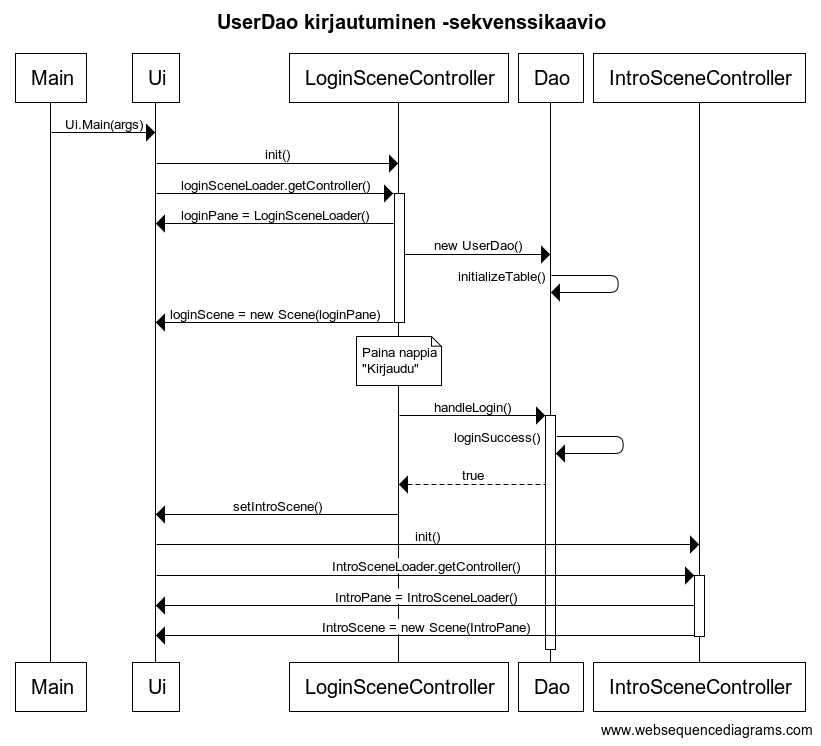
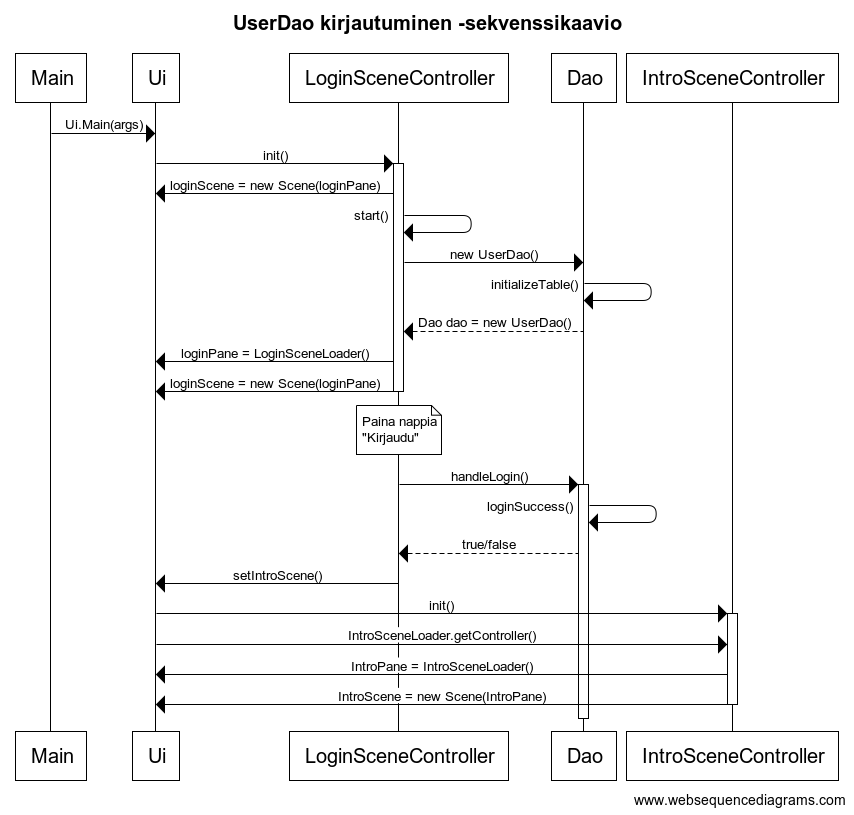
Sekvenssikaavioiden päivittäminen ja viimeistely

Changed region(s): [[0.0, 0.0, 1.0, 1.0], [0.0305, 0.8941, 0.1218, 0.9558]]

diff --git a/matopeli/src/main/java/matopeli/ui/LoginSceneController.java b/matopeli/src/main/java/matopeli/ui/LoginSceneController.java
@@ -48,7 +48,7 @@ public class LoginSceneController implements Initializable {
 
     @Override
     public void initialize(URL url, ResourceBundle rb) {
-
+        
     }    
 
     /**
@@ -67,6 +67,7 @@ public class LoginSceneController implements Initializable {
         else {
             if (dao.loginSuccess(username, password)) {
                 application.setIntroScene();
+                errorMessage.setText(""); 
             } else {
                 errorMessage.setText("Kirjautuminen epäonnistui!"); 
             }
@@ -75,6 +76,7 @@ public class LoginSceneController implements Initializable {
     
     @FXML
     public void handleGoToRegister(ActionEvent event) {
+        errorMessage.setText(""); 
         application.setRegisterScene();
     }
 
@@ -93,6 +95,7 @@ public class LoginSceneController implements Initializable {
      */
     @FXML 
     public void start() throws Exception {
+        
         Properties property = new Properties(); 
         property.load(new FileInputStream("config.properties"));
         

diff --git a/matopeli/src/main/java/matopeli/ui/RegisterSceneController.java b/matopeli/src/main/java/matopeli/ui/RegisterSceneController.java
@@ -82,9 +82,16 @@ public class RegisterSceneController implements Initializable {
     @FXML
     public void handleGoToLogin(ActionEvent event) {
         application.setLoginScene();
+        uiMessage.setText(""); 
     }
     @Override
     public void initialize(URL url, ResourceBundle rb) {
-        
+    
     }  
+
+    @FXML 
+    public void start() throws Exception {
+             
+    }
+
 }

diff --git a/dokumentaatio/arkkitehtuuri.md b/dokumentaatio/arkkitehtuuri.md
@@ -24,30 +24,58 @@ DatabaseURL-osoitetta käytetään sovelluksen käynnistyksen yhteydessä gameDa
 
 ## Sekvenssikaaviot
 
+### Käyttäjän Kirjautuminen
+
+Ui-luokka alustaa LoginSceneController-luokan ja asettaa kirjautumisnäkymän. Samalla LoginSceneController luokka alustaa Dao-rajapinnan "User"-toimintoja varten käyttämällä ```config.properties```-tiedostoa tietokantayhteyden luomiseksi. 
+
+Kun käyttäjä painaa nappia "Kirjaudu" LoginSceneControllerin ```handleLogin()``` funktion kautta Dao-rajapinta käsittelee kirjautumisen SQLiten kautta metodilla ```loginSuccess()```. Tämä palauttaa totuusarvon LoginSceneControllerille. Jos vastaus oli true, niin LoginSceneController välittää Ui:lle asetettavaksi aloitusnäkymän metodilla ```setIntroScene```. Näkymä siirtyy aloitusnäkymään. 
+
+<img src ="https://github.com/limi96/ot-harjoitustyo/blob/master/dokumentaatio/kuvat/kirjautuminen-sekvenssikaavio.png">
+
 ### Käyttäjän rekisteröytyminen
 
-Ui-luokka alustaa RegisterSceneController-luokan ja asettaa rekisteröytymis. Samalla RegisterSceneController luokka alustaa Dao-rajapinnan "User"-toimintoja varten. 
+Ui-luokka alustaa RegisterSceneController-luokan ja asettaa rekisteröytymisnäkymän. Ui-luokassa linkitetään LoginSceneController RegisterSceneControlleriin ja tämä saa DAO-rajapinnan itselleen LoginSceneControllerin kautta. 
 
 Kun käyttäjä painaa nappia "Rekisteröidy" RegisterSceneControllerin ```handleRegistration()``` funktion kautta Dao-rajapinta käsittelee rekisteröytymisen SQLiten kautta metodilla ```registerUser()```. Tämä palauttaa totuusarvon RegisterSceneControllerille. 
 Käyttäjä voi painaa tämän jälkeen nappia "Takaisin", jolloin RegisterSceneController välittää Ui:lle asetettavaksi kirjautumisnäkymän metodilla ```setLoginScene```. Näkymä siirtyy kirjautumisnäkymään. 
 
 <img src ="https://github.com/limi96/ot-harjoitustyo/blob/master/dokumentaatio/kuvat/rekisteroi%20-sekvenssikaavio.png">
 
-### Käyttäjän Kirjautuminen
-
-Ui-luokka alustaa LoginSceneController-luokan ja asettaa kirjautumisnäkymän. Samalla LoginSceneController luokka alustaa Dao-rajapinnan "User"-toimintoja varten. 
-
-Kun käyttäjä painaa nappia "Kirjaudu" LoginSceneControllerin ```handleLogin()``` funktion kautta Dao-rajapinta käsittelee kirjautumisen SQLiten kautta metodilla ```loginSuccess()```. Tämä palauttaa totuusarvon LoginSceneControllerille. Jos vastaus oli true, niin LoginSceneController välittää Ui:lle asetettavaksi aloitusnäkymän metodilla ```setIntroScene```. Näkymä siirtyy aloitusnäkymään. 
-
-<img src ="https://github.com/limi96/ot-harjoitustyo/blob/master/dokumentaatio/kuvat/kirjautuminen-sekvenssikaavio.png">
 
 ### Varsinaisen matopeli-näkymän käynnistyminen
 
-Ui-luokan alustuksen jälkeen, introScene-näkymässä olevan "Aloita peli :)" -nappia painatteassa introController-luokan ``` handleInitGame()```  -metodin kautta Ui asettaa näkymäksi``` gameScenen``` eli varsinaisen pelinäkymän ```setGameScene()```-metodin kautta. GameOverSceneController alustaa GameWindow:n luoman pelinäkymän Ui:lle. Lisäksi GameWindow saa GameOverSceneController-luokan injektion, jonka avulla GameWindow voi käsitellä pelin loppumista metodilla ```handleGameOver()```.
+Ui-luokan alustuksen jälkeen, introScene-näkymässä olevan "Pelaa peliä :)" -nappia painatteassa introController-luokan ``` handleInitGame()```  -metodin kautta Ui asettaa näkymäksi``` gameScenen``` eli varsinaisen pelinäkymän ```setGameWindow(Color, Color, true/false)```-metodin kautta , jossa on parametreina Intro-näkymässä valitut värivaihtoehdot. GameSceneController alustaa GameWindow:n luoman pelinäkymän Ui:lle. Lisäksi GameWindow saa GameSceneController-luokan injektion, jonka avulla GameWindow voi käsitellä pelin loppumista metodilla ```handleGameOver()```.
+
+Pelinäkymän hakemiseen käskytetään ensin GameSceneControlleria hakemaan GameWindow metodilla ```getGameWindow()```. GameSceneController pyytää GameWindow:ta rakentamaan pelinäkymän metodilla ```getGameScene(Color, Color, true/false)```. Nyt Ui voi vihdoin asettaa itselleen pelinäkymän metodilla ```setGameScene()```. 
 
 GameWindow-luokka alustaa SnakeClassin ja Food-luokkien kautta pelille tarpeelliset Oliot ja pelinäkymän ``` initializeSnake()```, ```initializeScore()``` ja ``` initializeRootpane()``` -metodien kautta. Peli käynnistetään ```startGame()```- metodin kautta ja lisätään ohjaustoiminto ```addKeyListener()``` -metodin kautta. Nyt vihdoinkin on rakennettu pelinäkymä ```gameScene```, joka palautetaan Ui-luokalle ja tämä asettaa pelinäkymän käyttäjälle. 
 
-Peli päivittyy jatkuvasti ``` render() ``` -metodin kautta, jolloin SnakeClass-olion kautta voidaan säätää maton nopeus, pituus ja suunta. Pelin loppuessa GameWindow kutsuu GameOverSceneController-luokan ```handleGameOver()```-metodia, jolloin Ui-luokka asettaa ```setGameOverScene```-metodin kautta pelin loppunäkymän. 
+Peli päivittyy jatkuvasti ``` render() ``` -metodin kautta, jolloin SnakeClass-olion kautta voidaan säätää maton nopeus, pituus ja suunta. Pelin loppuessa GameWindow kutsuu GameSceneController-luokan ```handleGameOver()```-metodia, jolloin Ui-luokka asettaa ```setGameOverScene```-metodin kautta pelin loppunäkymän. 
 
 
 <img src="https://github.com/limi96/ot-harjoitustyo/blob/master/dokumentaatio/kuvat/matopeli-sekvenssikaavio.png">
+
+### Loppunäkymä - Pisteiden tallennus ja uudelleenkäynnistyminen 
+
+Ui-luokka alustaa loppunäkymän eli GameOverScenen ja ennen käynnistymistä Ui-luokassa linkitetään LoginSceneController GameSceneControlleriin ja tämä saa DAO-rajapinnan itselleen LoginSceneControllerin kautta. 
+
+Kun peli päättyy GameWindow-luokka pyytää GameSceneControlleria käsittelemään pelin loppumista handleGameOver()-metodin kautta. 
+Tämä hoitaa pelin pisteiden tallentumisen käyttäjälle ensin hakemalla pisteet GameWindow-luokalta, sitten käyttäjänimen LoginSceneControllerilta ja tekee lopulta tallenuksen tietokantaa DAO-rajapinnan kautta. Lopuksi GameSceneController ilmoittaa käyttäjälle Label-olion kautta lopullisen pistemäärän. 
+
+Pelin uudelleen käynnistyminen tapahtuu siten, että GameSceneController pyytää GameWindow-luokalta edellisen pelin väriasetukset. Tämän jälkeen GameSceneController hoitaa pelin käynnistymisen ```handleRestartGame()```-metodin kautta. Pelinäkymä luodaan kokonaan uudestaan Ui:lle edellisen sekvenssikaavion kuvailemalla tavalla. 
+
+<img src="https://github.com/limi96/ot-harjoitustyo/blob/master/dokumentaatio/kuvat/loppunakyma-sekvenssi.png">
+
+
+### Highscores-näkymän luominen
+
+
+Ui-luokka alustaa highscores-näkymän ja ennen käynnistymistä Ui-luokassa linkitetään LoginSceneController HighScoresSceneControlleriin ja tämä saa DAO-rajapinnan itselleen LoginSceneControllerin kautta. 
+
+HighScoresSceneControllerin käynnistyessä ```start()```-metodilla se hakee DAO-rajapinnan kautta metodilla ```fetchHighScores()``` tietokannasta käyttäjien pistetilanteet. Tämän jälkeen saatu listan tiedot käsitellään ja asetetaan käyttäjälle näkyviin ```nameLabel``` ja ```scoreLabel``` Label-olioden avulla. 
+
+<img src="https://github.com/limi96/ot-harjoitustyo/blob/master/dokumentaatio/kuvat/highscoret-sekvenssikaavio.png">
+
+
+
+

diff --git a/dokumentaatio/vaatimusmaarittely.md b/dokumentaatio/vaatimusmaarittely.md
@@ -10,9 +10,9 @@ Sovelluksessa on vain peruskäyttäjiä.
 
 ## Käyttöliittymäluonnos
 
-<img src="https://github.com/limi96/ot-harjoitustyo/blob/master/dokumentaatio/kuvat/kayttoliittymaluonnos.png" width="500">
+<img src="https://github.com/limi96/ot-harjoitustyo/blob/master/dokumentaatio/kuvat/kayttoliittymaluonnos.png" width="800">
 
-Sovellus alkaa kirjautumisnäkymästä, josta voi siirtyä joko suoraan "logged in" -osioon tai rekisteröintisivun kautta. "Logged in" -sivusta pääsee joko pelaamaan peliä tai katsomaan parhaimpia tuloksia "high scores"-sivulla. Häviämisen jälkeen voidaan siirtyä uuteen peliin, tarkastelemaan parhaimpia tuloksia tai kirjautumalla pois. 
+Sovellus alkaa kirjautumisnäkymästä, josta voi siirtyä joko suoraan Intro-näkymään tai rekisteröytymään. Intro-näkymästä pääsee joko pelaamaan peliä tai katsomaan parhaimpia tuloksia "high scores"-sivulla. Häviämisen jälkeen voidaan siirtyä uuteen peliin, tarkastelemaan parhaimpia tuloksia tai kirjautumalla pois. 
 
 
 ## Perusversion tarjoama toiminnallisuus
@@ -22,16 +22,25 @@ Sovellus alkaa kirjautumisnäkymästä, josta voi siirtyä joko suoraan "logged 
 - :heavy_check_mark: Pelissä on näkymä, jossa on nappi, josta päästään pelaamaan peliä 
 - :heavy_check_mark: Käyttäjä voi luoda uuden tunnuksen
 - :heavy_check_mark: Käyttäjä voi kirjautua sisään jo olemassaolevilla tunnuksilla
+- :heavy_check_mark: Kirjautuessa ja rekisteröinnin aikana tarkistetaan tyhjät ja välilyöntejä sisältävät syötteet 
+- :heavy_check_mark: Rekisteröinnin aikana tarkistetaan, onko olemassa jo samanniminen käyttäjätunnus
+- :heavy_check_mark: Virhetekstit eivät jää lojumaan siirtyessä näkymästä toiseen kirjautumis -ja rekisteröintinäkymissä. 
 
 ### Kirjautumisen jälkeen:
 
 - :heavy_check_mark: Käyttäjä voi pelata peliä
-- Käyttäjä voi tarkistaa parhaimpia tuloksia
+- :heavy_check_mark: Käyttäjä voi tarkistaa parhaimpia tuloksia
 - :heavy_check_mark: Käyttäjä voi kirjautua ulos
+- :heavy_check_mark: Käyttäjä voi valita madon, ruuan ja taustan värit
+- :heavy_check_mark: Jos madon tai ruuan väriksi on valittu musta tai valkonen, kyseessä oleva olion väri muuttuu oletusarvoiseksi. 
+- :heavy_check_mark: Intro-näkymässä on ohjeet pelin aloittamista varten. 
 
 ### Pelin aikana: 
 
 - :heavy_check_mark: Käyttäjä pääsee pelaamaan perinteistä matopeliä
+- :heavy_check_mark: Pelin aikana on mahdollista tauottaa peli painamalla p-näppäintä 
+- :heavy_check_mark: Tauotettu peli jatkaa toimintaansa painaessa p-näppäintä uudestaan. 
+- :heavy_check_mark: "Peli tauotettu" -teksti näkyy sekä valkoisella että mustalla taustalla. 
 
 ### Matopelin toiminallisuudet:
 
@@ -42,7 +51,9 @@ Sovellus alkaa kirjautumisnäkymästä, josta voi siirtyä joko suoraan "logged 
 
 ### Pelin päätyttyä: 
 
-- Käyttäjä näkee oman tuloksensa. 
+- :heavy_check_mark: Käyttäjä näkee oman tuloksensa. 
 - :heavy_check_mark: Käyttäjä voi pelata pelin uudestaan
-- Käyttäjä voi siirtyä tarkistamaa parhaimpia tuloksia
+- :heavy_check_mark: Käyttäjä voi siirtyä tarkistamaa parhaimpia tuloksia
+- :heavy_check_mark: Jos on kyseessä tyhjä tulostaulu, käyttäjä näkee tekstin, jossa tämä ilmoitetaan. 
 - :heavy_check_mark: Käyttäjä voi kirjautua ulos
+- :heavy_check_mark: Käyttäjien tiedot pysyvät tallessa sovelluksen suljettua edellyttäen, että gameDatabse.db-tietokantatiedosto pysyy tallella. 

diff --git a/dokumentaatio/testausdokumentti.md b/dokumentaatio/testausdokumentti.md
@@ -3,6 +3,10 @@
 Ohjelman testaaminen on toteutettu kokonaisuudessan JUnitilla. Koska tällä kurssilla emme testaa UI-liittyviä asioita, 
 UI-liittyvät osat ovat testattu manuaalisesti ohjelman kehityksen aikana. 
 
+Sovellus ei aiheuta Exceptioneiden tulostumista, koska tämä oli arvosteluperusteissa kielletty. Siksi esimerkiksi olemassaolevien käyttäjätunnuksen tarkastaminen ei tapahdu tietokantatasolla vaan pelkästään ohjelman käyttöliittymässä. (Käytössä oli ennen TEXT UNIQUE sarake tietokannassa).
+
+SnakeClass-luokassa on myös yksi pitkä metodi, joka on 24-riviä johtuen siitä, että se käsittelee kaikki suunnan muutokset ja koodi muuttuisi huomattavasti monimutkaisemmaksi, jos toiminnot jaotellaan pienemmiksi metodeiksi. Siksi poikkeusta ei ole korjattu pois. 
+
 ## Yksikkö -ja integraatiotestaus
 
 ### DAO:n totetutus (UserDao-luokka)
@@ -33,7 +37,7 @@ Koska käyttöliittymä on jätetty pois, ohjelman järjestelmätestaus on suori
 
 ### Asennus ja konfigurointi 
 
-
+Sovellus toimii käyttöohjeen kuvaamalla tavalla Linux-ympäristössä, kunhan suoritettavassa hakemistosta löytyy ```config.properties``` -tiedosto ja koneessa toimii Java 11, JavaFX ja SQLite normaalisti. 
 
 ### Toiminnallisuudet 
 

diff --git a/README.md b/README.md
@@ -3,14 +3,18 @@
 ## Matopeli
 
 Tämä projekti on osana Helsingin yliopiston Ohjelmistotekniikka-kurssia. 
-
 Sovelluksen avulla on mahdollista pelata matopeliä. Sovellus mahdollistaa myös pisteiden tallenuksen käyttäjänimellä.
+Lopuksi voidaan tarkistaa highscores-näkymästä käyttäjien Top 5 korkeimmat pisteet. 
 
 ## Javan versio
 
 Sovellus on kirjoitettu Javan versiolle 11 ja käyttää JavaFX:ää. 
 
 ## Dokumentaatio
+
+[Käyttöohje](https://github.com/limi96/ot-harjoitustyo/blob/master/dokumentaatio/kayttoohje.md)
+
+[Testausdokumentti](https://github.com/limi96/ot-harjoitustyo/blob/master/dokumentaatio/testausdokumentti.md)
 
 [Vaatimusmäärittely](https://github.com/limi96/ot-harjoitustyo/blob/master/dokumentaatio/vaatimusmaarittely.md)
 
@@ -21,6 +25,10 @@ Sovellus on kirjoitettu Javan versiolle 11 ja käyttää JavaFX:ää.
 ## Release
 
 [Viikko 5 release](https://github.com/limi96/ot-harjoitustyo/releases/tag/viikko5)
+
+[Viikko 6 release](https://github.com/limi96/ot-harjoitustyo/releases/tag/viikko6)
+
+[Loppupalautus](https://github.com/limi96/ot-harjoitustyo/releases/tag/loppupalautus)
 
 ## Sovelluksen käyttö
 

diff --git a/dokumentaatio/kayttoohje.md b/dokumentaatio/kayttoohje.md
@@ -1,6 +1,6 @@
 # Käyttöohje
 
-Lataa tiedosto [Matopeli-1.0-SNAPSHOT.jar](https://github.com/limi96/ot-harjoitustyo/releases/tag/viikko6)
+Lataa tiedosto [Matopeli-1.0-SNAPSHOT.jar](https://github.com/limi96/ot-harjoitustyo/releases/tag/loppupalautus)
 
 # Konfigurointi
 
@@ -49,7 +49,7 @@ Paina "Pelaa peliä :)"-painiketta aloittaaksesi pelin.
 Jos haluat nähdä nykyiset highscoret paina "Katso highscoret!"-nappia.
 Jos haluat kirjautua ulos, paina "kirjaudu ulos" -nappia niin pääset takaisin kirjautumisnäkymään. 
 
-<img src="https://github.com/limi96/ot-harjoitustyo/blob/master/dokumentaatio/kuvat/pelinpelaaminen.png">
+<img src="https://github.com/limi96/ot-harjoitustyo/blob/master/dokumentaatio/kuvat/intronakyma.png">
 
 # Pelin pelaaminen
 
@@ -79,7 +79,7 @@ Kuten aiemmin napista "Katso highscoret!" pääset katsomaan highscoreja.
 
 Pääset tästä näkymästä takaisin introon painamala "Takaisin introon!" -nappia. 
 
-
+<img src="https://github.com/limi96/ot-harjoitustyo/blob/master/dokumentaatio/kuvat/highscoret.png">
 
 
 

diff --git a/dokumentaatio/tyoaikakirjanpito.md b/dokumentaatio/tyoaikakirjanpito.md
@@ -25,8 +25,9 @@
 |  23.12  |  2h   |HighScoret näkymän lisääminen|
 |  24.12  |  2h   |Testien kirjoittaminen, lisätty FoodTest|
 |  25.12  |  2h   |Dokumentaation päivittäminen|
+|  26.12  |  2h   |Sekvenssikaavioiden päivittäminen ja viimeistely|
 
-Yhteensä: 50h  
+Yhteensä: 52h  
 
 
 
